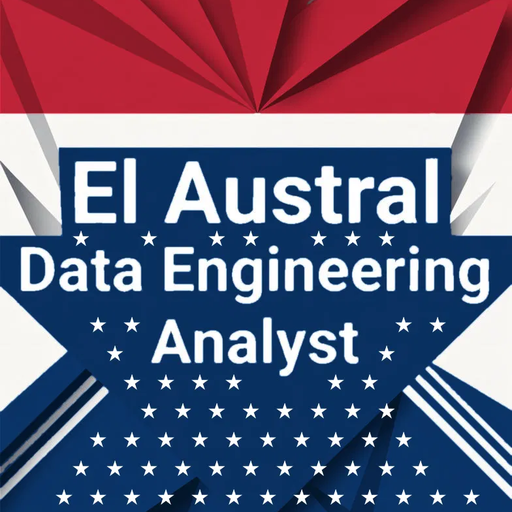
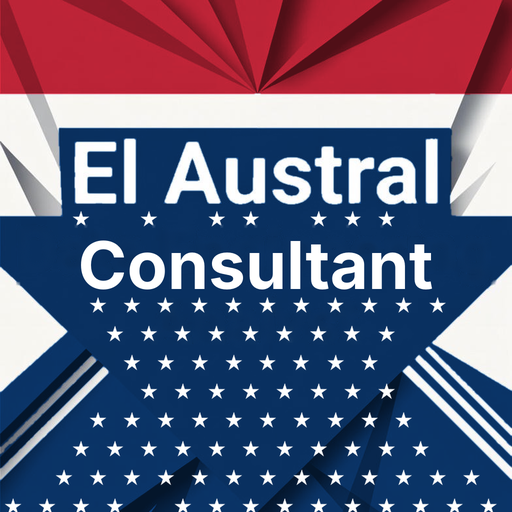
Add files via upload

diff --git a/testimonials.html b/testimonials.html
@@ -8,11 +8,11 @@
 <link rel="icon" href="favicon.ico" sizes="any">
 <link rel="icon" type="image/png" sizes="32x32" href="icons/favicon-32.png">
 <link rel="apple-touch-icon" href="icons/apple-touch-icon.png">
-<!-- Link preview (email, text, social). Replace YOUR-USERNAME with your GitHub username after Step 1 of SETUP.md -->
+<!-- Link preview (email, text, social). Uses the live site address -->
 <meta property="og:site_name" content="El Austral Consultant">
 <meta property="og:title" content="Testimonials for Miguel | El Austral Consultant">
 <meta property="og:description" content="Read what past customers say about working with Miguel, and leave your own testimonial.">
-<meta property="og:image" content="https://YOUR-USERNAME.github.io/el-austral-standby/icons/link-preview.png">
+<meta property="og:image" content="https://miguelzapata1967.github.io/el-austral-testimonials/icons/link-preview.png">
 <meta property="og:type" content="website">
 <meta name="twitter:card" content="summary_large_image">
 <link rel="stylesheet" href="Styles/style.css">

diff --git a/contact_us.html b/contact_us.html
@@ -8,11 +8,11 @@
 <link rel="icon" href="favicon.ico" sizes="any">
 <link rel="icon" type="image/png" sizes="32x32" href="icons/favicon-32.png">
 <link rel="apple-touch-icon" href="icons/apple-touch-icon.png">
-<!-- Link preview (email, text, social). Replace YOUR-USERNAME with your GitHub username after Step 1 of SETUP.md -->
+<!-- Link preview (email, text, social). Uses the live site address -->
 <meta property="og:site_name" content="El Austral Consultant">
 <meta property="og:title" content="Leave a Testimonial | El Austral Consultant">
 <meta property="og:description" content="Read what past customers say about working with Miguel, and leave your own testimonial.">
-<meta property="og:image" content="https://YOUR-USERNAME.github.io/el-austral-standby/icons/link-preview.png">
+<meta property="og:image" content="https://miguelzapata1967.github.io/el-austral-testimonials/icons/link-preview.png">
 <meta property="og:type" content="website">
 <meta name="twitter:card" content="summary_large_image">
 <link rel="stylesheet" href="Styles/style.css">

diff --git a/SETUP.md b/SETUP.md
@@ -18,14 +18,14 @@ Before uploading, copy these folders from your English folder into this one (cop
 `Scripts`, `Graph` and `Music`. (`Styles` and `Images` with the two mountain pictures are already included.)
 
 ## Step 1: Put the site on GitHub (about 10 minutes)
-1. On github.com, create a new public repository, for example `el-austral-standby`.
+1. On github.com, create a new public repository, for example `el-austral-testimonials`.
 2. Upload every file and folder from this site, keeping the `data` folder.
 3. Go to Settings > Pages > Source: "Deploy from a branch", choose `main`, then `/ (root)`, then Save.
-4. Your site address will be `https://YOUR-USERNAME.github.io/el-austral-standby/`.
+4. Your site address will be `https://miguelzapata1967.github.io/el-austral-testimonials/`.
 
 ## Step 2: Create the GitHub key for the connector
 1. Go to GitHub > your picture > Settings > Developer settings > Personal access tokens > Fine-grained tokens > Generate new token.
-2. Name: `testimonials-connector`. Repository access: **Only select repositories**, then pick `el-austral-standby`.
+2. Name: `testimonials-connector`. Repository access: **Only select repositories**, then pick `el-austral-testimonials`.
 3. Permissions > Repository permissions > **Contents: Read and write**. Leave everything else alone.
 4. Generate the token and copy it. GitHub shows it only once.
 
@@ -34,10 +34,10 @@ Before uploading, copy these folders from your English folder into this one (cop
 2. Click **Edit code**, delete the sample code, paste all of `connector/worker.js`, then Deploy.
 3. Go to Settings > Variables and Secrets and add:
    - `GITHUB_TOKEN`: the token from Step 2 (choose type **Secret**)
-   - `GITHUB_REPO`: `YOUR-USERNAME/el-austral-standby`
+   - `GITHUB_REPO`: `miguelzapata1967/el-austral-testimonials`
    - `GITHUB_BRANCH`: `main`
    - `FILE_PATH`: `data/testimonials.json`
-   - `ALLOWED_ORIGIN`: `https://YOUR-USERNAME.github.io` (no slash at the end)
+   - `ALLOWED_ORIGIN`: `https://miguelzapata1967.github.io` (no slash at the end)
 4. Copy the Worker address, for example `https://el-austral-testimonials.YOUR-ACCOUNT.workers.dev`.
 5. In `contact_us.html`, replace the `CONNECTOR_URL` value with that address. Upload the file to GitHub again.
 
@@ -62,7 +62,7 @@ Copy `data/testimonials.json` and `testimonials.html` into the main site. Point 
 `GITHUB_REPO` to the main repository. Nothing else changes.
 
 ## Icon and link preview
-- `favicon.ico` and the `icons` folder hold your El Austral Data Engineering Analyst icon. It shows on the browser tab and on phone home screens.
+- `favicon.ico` and the `icons` folder hold your El Austral Consultant icon. It shows on the browser tab and on phone home screens.
 - `icons/link-preview.png` is the picture people see when you send the link by email or text.
 - After Step 1, open both HTML files and replace `YOUR-USERNAME` (and `el-austral-standby` if you named the repo differently) in the `og:image` line. Link previews need the full web address.
 - To use the same icon on your homepage, Services and About Us pages, copy the icon and preview lines from the top of `testimonials.html` into the `<head>` of each page.
